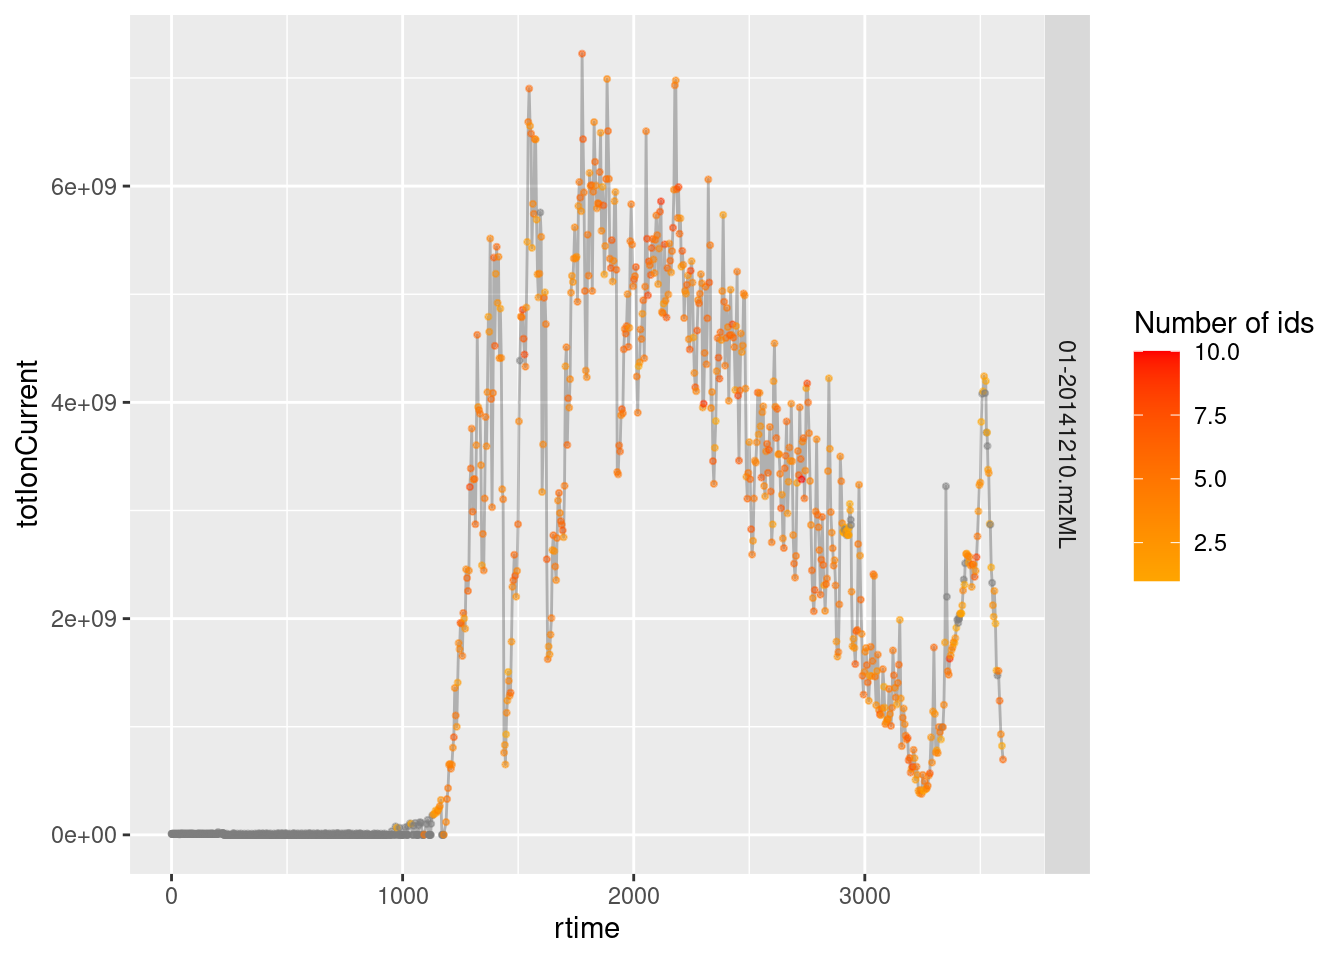
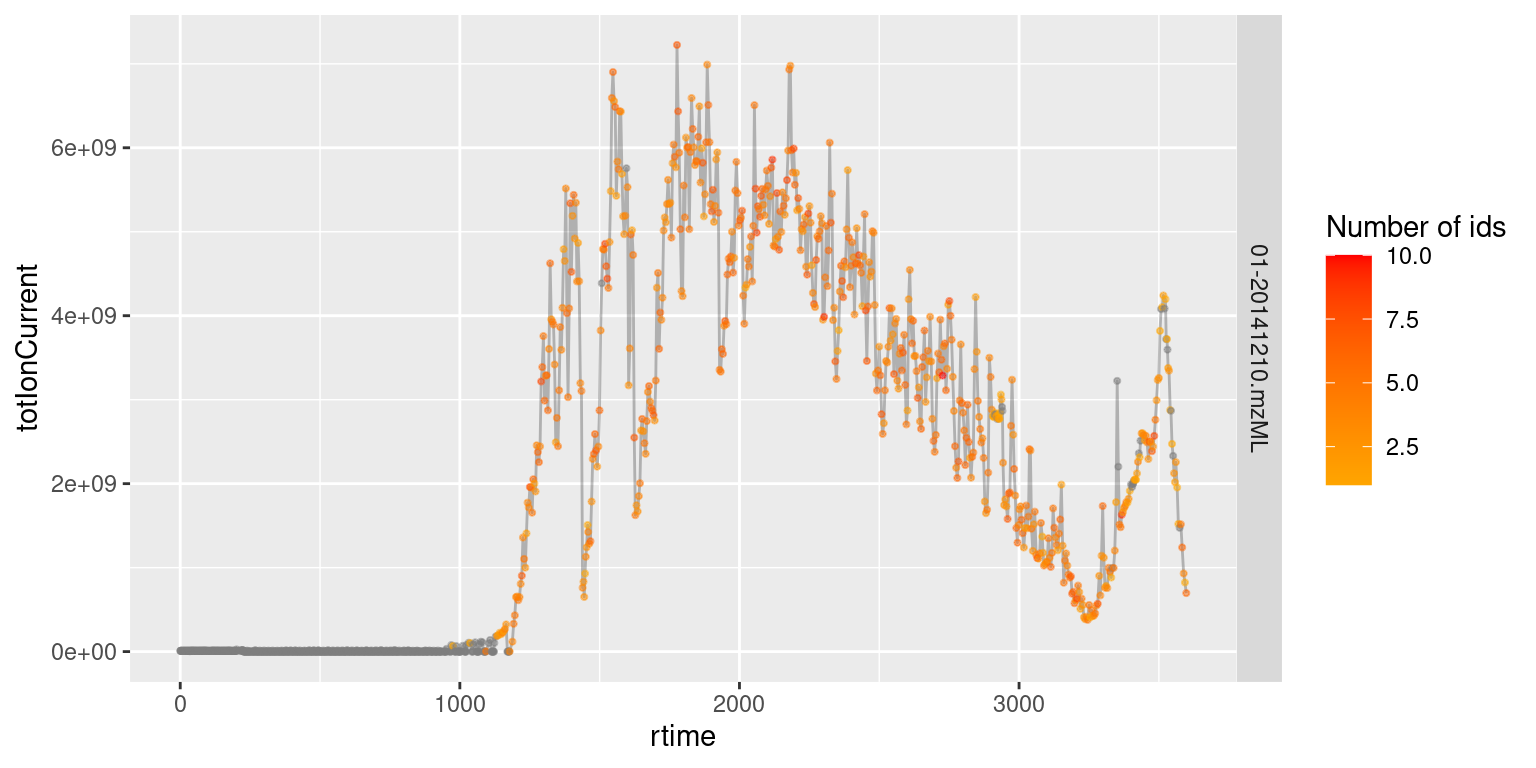
resize id chrom

diff --git a/docs/sec-raw.html b/docs/sec-raw.html
@@ -477,7 +477,7 @@ memory footprint.</li>
 ## 1862         1   259.752       931
 ##  ... 33 more variables/columns.
 ## Processing:
-##  Switch backend from MsBackendMzR to MsBackendDataFrame [Sun Nov 21 14:29:18 2021]</code></pre>
+##  Switch backend from MsBackendMzR to MsBackendDataFrame [Sun Nov 21 14:47:21 2021]</code></pre>
 <ul>
 <li>
 <code>MsBackendHdf5Peaks</code>: similar to <code>MsBackendMzR</code> this backend reads peak data
@@ -507,7 +507,7 @@ memory. The peak data are stored in Hdf5 files which guarantees scalability.</li
 ##  20171016_POOL_POS_1_105-134.h5
 ##  20171016_POOL_POS_3_105-134.h5
 ## Processing:
-##  Switch backend from MsBackendMzR to MsBackendHdf5Peaks [Sun Nov 21 14:29:30 2021]</code></pre>
+##  Switch backend from MsBackendMzR to MsBackendHdf5Peaks [Sun Nov 21 14:47:29 2021]</code></pre>
 <div class="sourceCode" id="cb55"><pre class="sourceCode r"><code class="sourceCode r"><span id="cb55-1"><a href="sec-raw.html#cb55-1" aria-hidden="true" tabindex="-1"></a><span class="fu">table</span>(sp_hdf5<span class="sc">$</span>dataOrigin)</span></code></pre></div>
 <pre><code>## 
 ## /home/lgatto/R/x86_64-pc-linux-gnu-library/4.1/msdata/sciex/20171016_POOL_POS_1_105-134.mzML 
@@ -516,9 +516,9 @@ memory. The peak data are stored in Hdf5 files which guarantees scalability.</li
 ##                                                                                          931</code></pre>
 <div class="sourceCode" id="cb57"><pre class="sourceCode r"><code class="sourceCode r"><span id="cb57-1"><a href="sec-raw.html#cb57-1" aria-hidden="true" tabindex="-1"></a><span class="fu">table</span>(sp_hdf5<span class="sc">$</span>dataStorage)</span></code></pre></div>
 <pre><code>## 
-## /tmp/RtmpLD8qmN/20171016_POOL_POS_1_105-134.h5 
+## /tmp/Rtmp8iTOmw/20171016_POOL_POS_1_105-134.h5 
 ##                                            931 
-## /tmp/RtmpLD8qmN/20171016_POOL_POS_3_105-134.h5 
+## /tmp/Rtmp8iTOmw/20171016_POOL_POS_3_105-134.h5 
 ##                                            931</code></pre>
 <p>All of the above mentioned backends support changing all of their their spectra
 variables, <strong>except</strong> the <code>MsBackendMzR</code> that does not support changing m/z or
@@ -631,7 +631,7 @@ children.</li>
 ## file(s):
 ## 53fd9a5bb5f5_TMT_Erwinia_1uLSike_Top10HCD_isol2_45stepped_60min_01-20141210.mzML
 ## Processing:
-##  Filter: select parent/children scans for 2807 [Sun Nov 21 14:29:30 2021]</code></pre>
+##  Filter: select parent/children scans for 2807 [Sun Nov 21 14:47:30 2021]</code></pre>
 <p class="solution-end">
 <span class="fa fa-square-o solution-icon"></span>
 </p>
@@ -906,8 +906,8 @@ between 175 and 189 seconds in the measurement run.</p>
 ## file(s):
 ## 20171016_POOL_POS_3_105-134.mzML
 ## Processing:
-##  Filter: select data origin(s) /home/lgatto/R/x86_64-pc-linux-gnu-library/4.1/msdata/sciex/20171016_POOL_POS_3_105-134.mzML [Sun Nov 21 14:29:33 2021]
-##  Filter: select retention time [175..189] on MS level(s) 1 [Sun Nov 21 14:29:33 2021]</code></pre>
+##  Filter: select data origin(s) /home/lgatto/R/x86_64-pc-linux-gnu-library/4.1/msdata/sciex/20171016_POOL_POS_3_105-134.mzML [Sun Nov 21 14:47:32 2021]
+##  Filter: select retention time [175..189] on MS level(s) 1 [Sun Nov 21 14:47:32 2021]</code></pre>
 <p class="solution-end">
 <span class="fa fa-square-o solution-icon"></span>
 </p>
@@ -989,7 +989,7 @@ below (next to Lazy evaluation queue).</p>
 ## 20171016_POOL_POS_3_105-134.mzML
 ## Lazy evaluation queue: 1 processing step(s)
 ## Processing:
-##  Remove peaks with intensities outside [10, Inf] in spectra of MS level(s) 1. [Sun Nov 21 14:29:33 2021]</code></pre>
+##  Remove peaks with intensities outside [10, Inf] in spectra of MS level(s) 1. [Sun Nov 21 14:47:33 2021]</code></pre>
 <div class="sourceCode" id="cb86"><pre class="sourceCode r"><code class="sourceCode r"><span id="cb86-1"><a href="sec-raw.html#cb86-1" aria-hidden="true" tabindex="-1"></a><span class="fu">min</span>(<span class="fu">intensity</span>(sp_sciex[<span class="dv">1</span>]))</span></code></pre></div>
 <pre><code>## </code></pre>
 <pre><code>## [1] 412</code></pre>

diff --git a/docs/sec-id.html b/docs/sec-id.html
@@ -867,7 +867,7 @@ to a PSM, 45 lead to two PSMs, …</p>
 <span id="cb172-12"><a href="sec-id.html#cb172-12" aria-hidden="true" tabindex="-1"></a>    <span class="fu">facet_grid</span>(<span class="fu">sub</span>(<span class="st">"^.+_"</span>, <span class="st">""</span>, <span class="fu">basename</span>(dataOrigin)) <span class="sc">~</span> .) <span class="sc">+</span></span>
 <span id="cb172-13"><a href="sec-id.html#cb172-13" aria-hidden="true" tabindex="-1"></a>    <span class="fu">labs</span>(<span class="at">colour =</span> <span class="st">"Number of ids"</span>)</span></code></pre></div>
 <div class="figure fullwidth">
-<img src="R4MS_files/figure-html/nSequencePlot-1.png" alt=" " width="672"><p class="caption marginnote shownote">
+<img src="R4MS_files/figure-html/nSequencePlot-1.png" alt=" " width="768"><p class="caption marginnote shownote">
 </p>
 </div>
 </div>
@@ -1343,7 +1343,7 @@ switch to an in-memory backend to seed up the calculations.</p>
 ## 77          2   3563.78     26314
 ##  ... 65 more variables/columns.
 ## Processing:
-##  Switch backend from MsBackendMzR to MsBackendDataFrame [Sun Nov 21 14:30:17 2021]</code></pre>
+##  Switch backend from MsBackendMzR to MsBackendDataFrame [Sun Nov 21 14:48:04 2021]</code></pre>
 <div class="sourceCode" id="cb240"><pre class="sourceCode r"><code class="sourceCode r"><span id="cb240-1"><a href="sec-id.html#cb240-1" aria-hidden="true" tabindex="-1"></a>cmat <span class="ot">&lt;-</span> <span class="fu">compareSpectra</span>(sp_O43175)</span>
 <span id="cb240-2"><a href="sec-id.html#cb240-2" aria-hidden="true" tabindex="-1"></a><span class="fu">rownames</span>(cmat) <span class="ot">&lt;-</span></span>
 <span id="cb240-3"><a href="sec-id.html#cb240-3" aria-hidden="true" tabindex="-1"></a>    <span class="fu">colnames</span>(cmat) <span class="ot">&lt;-</span> <span class="fu">strtrim</span>(sp_O43175<span class="sc">$</span>sequence, <span class="dv">3</span>)</span>
